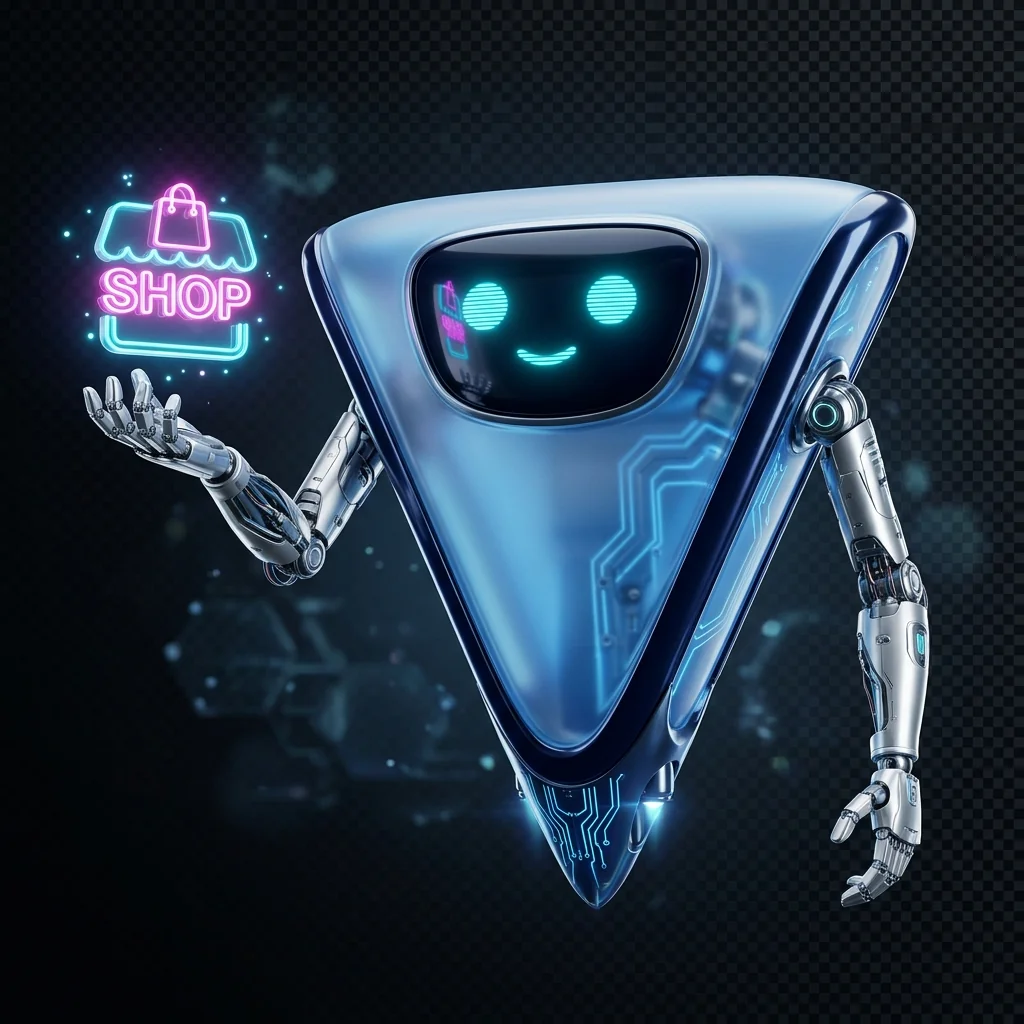
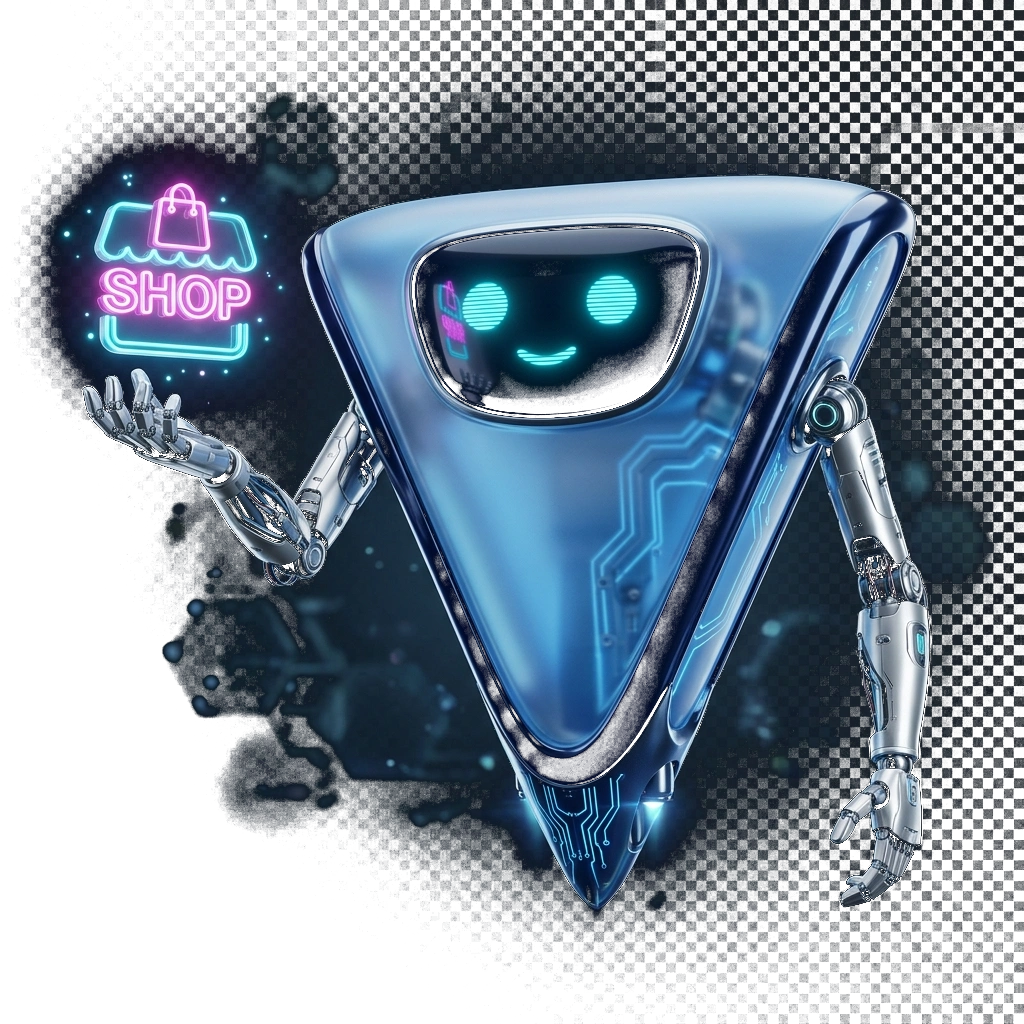
feat(asistan): seffaf 1024px master maskot ve cercevesiz canli fab

diff --git a/public_web/src/app/v/[slug]/OwnerAssistantPanel.tsx b/public_web/src/app/v/[slug]/OwnerAssistantPanel.tsx
@@ -803,7 +803,7 @@ export default function OwnerAssistantPanel({
         </div>
       ) : null}
 
-      {/* 2026-11-16 (Casper Kararı & Kurumsal Deneyim): Asistan kapalıyken sağ altta sabit parlayan tek parça orijinal Vixrex Maskot FAB */}
+      {/* 2026-11-16 (Casper Kararı & Kurumsal Marka Yüzü): Kutusuz, çerçevesiz, doğrudan süzülen parıltılı Vixrex Maskot FAB */}
       {((masaustu && !acik) || (!masaustu && !mobilGecmisAcik && !haritaAcik)) && (
         <button
           type="button"
@@ -814,15 +814,15 @@ export default function OwnerAssistantPanel({
             }
           }}
           aria-label="Vixrex Asistanı Aç"
-          className="fixed bottom-6 right-6 z-[74] flex h-14 w-14 items-center justify-center rounded-full border border-sky-400/50 bg-[#0E1B2E] shadow-[0_4px_24px_rgba(56,160,228,0.35)] transition-all duration-200 hover:scale-105 active:scale-95 group focus:outline-none focus:ring-2 focus:ring-sky-400"
+          className="fixed bottom-5 right-5 z-[74] flex items-center justify-center p-0 bg-transparent border-0 cursor-pointer transition-transform duration-300 hover:scale-110 active:scale-95 group focus:outline-none"
         >
           <Image
             src="/images/vixrex_v_crystal_mascot.webp"
             alt="Vixrex Asistan"
-            width={40}
-            height={40}
+            width={72}
+            height={72}
             priority
-            className="h-10 w-10 object-contain drop-shadow-[0_0_8px_rgba(56,160,228,0.5)] transition-transform duration-200 group-hover:scale-110"
+            className="h-16 w-16 md:h-18 md:w-18 object-contain drop-shadow-[0_0_18px_rgba(56,160,228,0.7)] transition-all duration-300 group-hover:drop-shadow-[0_0_28px_rgba(56,160,228,0.95)]"
           />
         </button>
       )}
